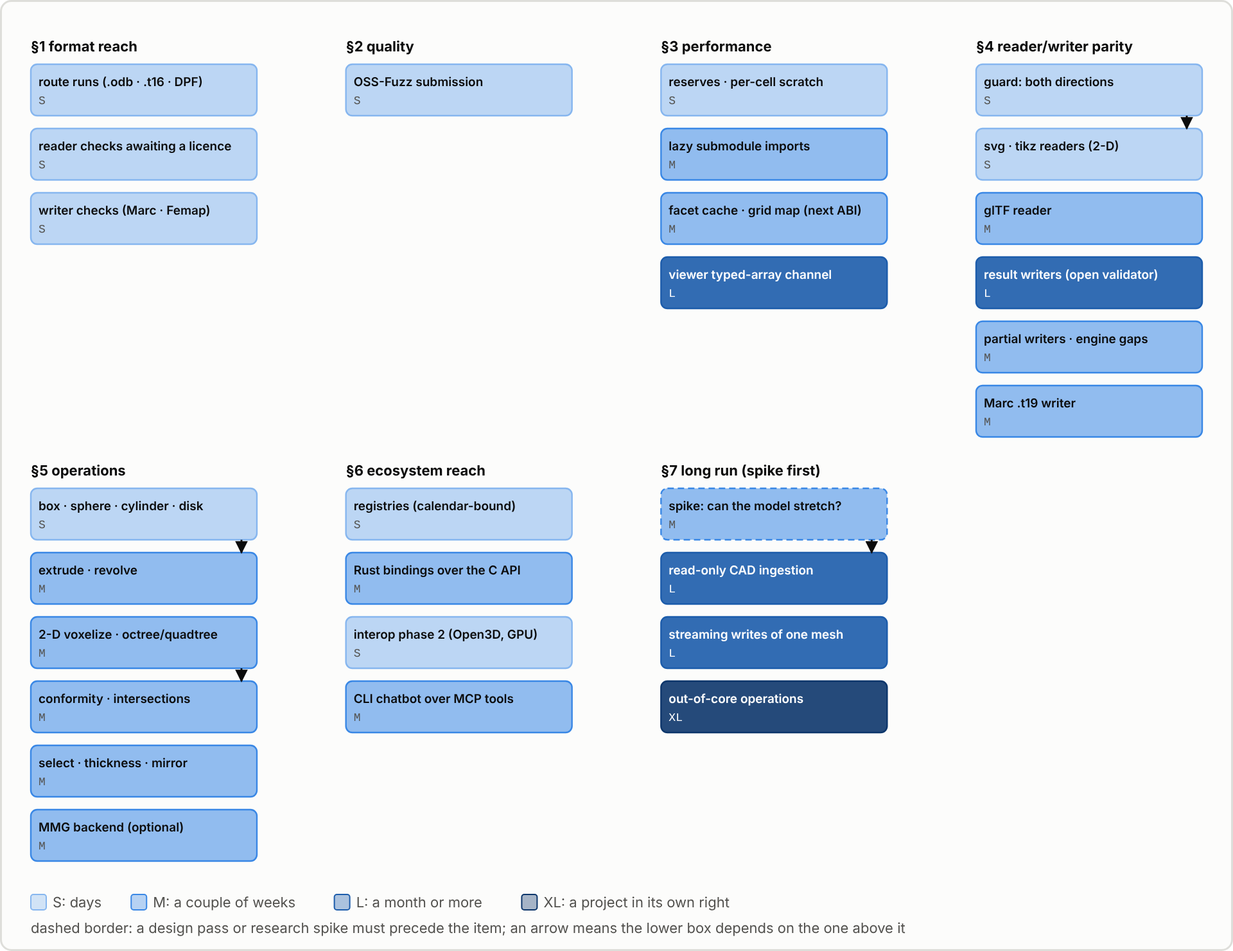
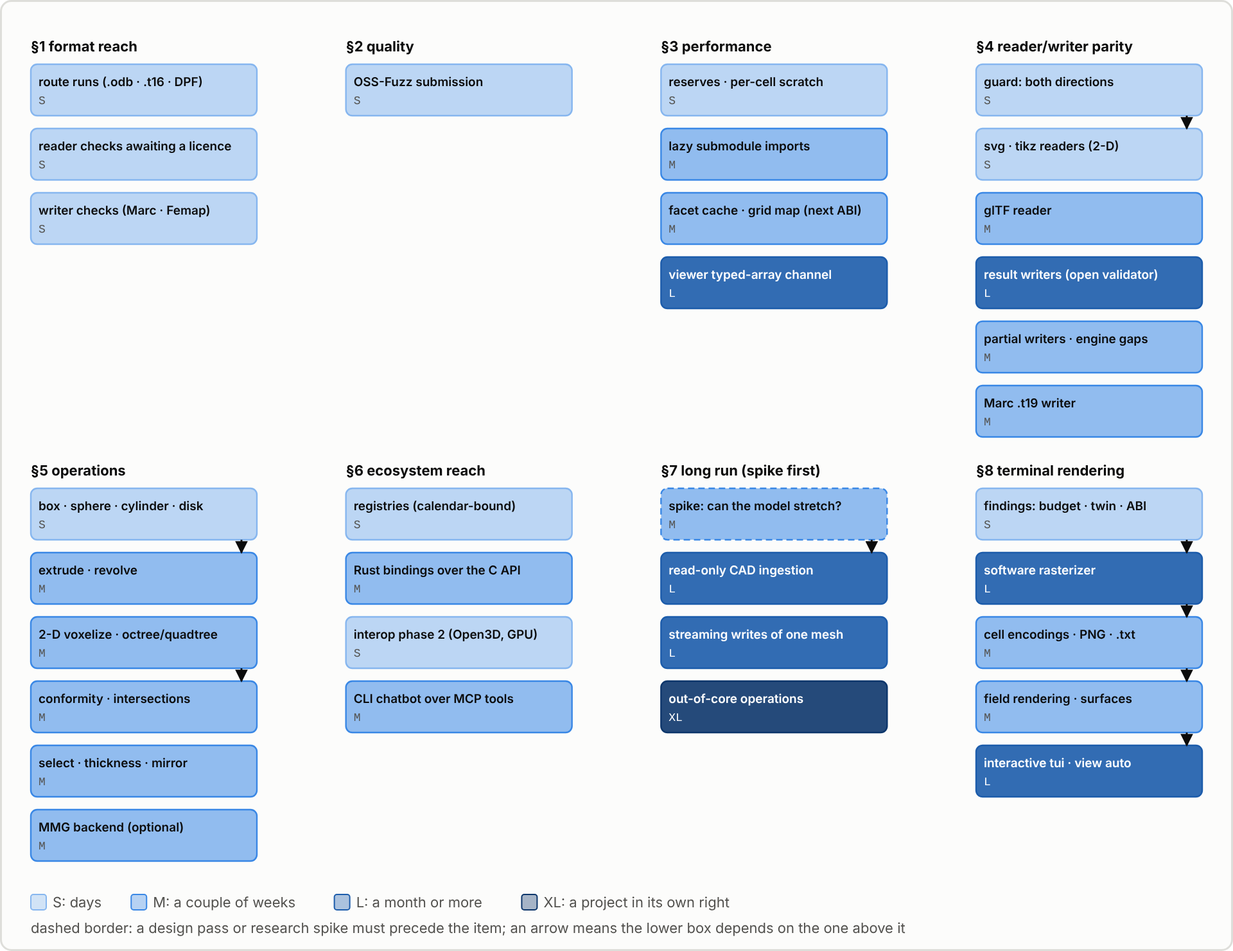
Rewrite roadmap section 8 (terminal rendering) into numbered, probed work items
Replace the pasted summary (dangling 7.x references, first-person notes) with 8.1-8.8: findings before code, software rasterizer, cell encodings, one-shot outputs, field rendering, surfaces, interactive loop and the view(backend=auto) change. Add the section to the roadmap map and the suggested sequencing.

Claude-Session: https://claude.ai/code/session_018xF6bMja5bT89q2K8qk381

Changed region(s): [[0.7812, 0.4662, 1.0, 0.8392]]

diff --git a/doc/diagrams/figures/flows.py b/doc/diagrams/figures/flows.py
@@ -1010,6 +1010,17 @@ def roadmap_map():
             ],
             [(0, 1)],
         ),
+        (
+            "§8 terminal rendering",
+            [
+                ("findings: budget · twin · ABI", "S"),
+                ("software rasterizer", "L"),
+                ("cell encodings · PNG · .txt", "M"),
+                ("field rendering · surfaces", "M"),
+                ("interactive tui · view auto", "L"),
+            ],
+            [(0, 1), (1, 2), (2, 3), (3, 4)],
+        ),
     ]
     per_row = 4
     col_w = 176

diff --git a/doc/roadmap.md b/doc/roadmap.md
@@ -336,19 +336,84 @@ What changed since parity last had a section. The reader/writer triage of Septem
 
 ## 8. Terminal rendering (TUI)
 
-*Admission: work whose shape is unknown until an investigation writes it down. Findings before code.*
+*Admission: a user-facing subsystem with no shipped half, assembled mostly from kernels that already exist. Findings (8.1) before code; after that the order is what each landing unlocks.*
 
-- **Core (7.1–7.3):** a software rasterizer built on the camera, colormap and facet-colour code the SVG and TikZ writers already share. It is deterministic, so frames are byte-identical across backends and thread counts. It draws to half-block, quadrant, sextant, Braille or ASCII cells at several colour depths, with optional Kitty, iTerm2 and Sixel graphics. One-shot outputs are `.txt`, `.ansi`, `.html`, PNG and `.cast`.
-- **Field rendering (7.4):** point and cell data, vector and tensor components, and tensor invariants. It also covers `data_calc` expressions, ranges and scales, colormaps, legends and categorical regions. Isolines, vector arrows and warping are included, with optional streamlines. Diagnostic views show quality and orientation.
-- **Interactive loop (7.5–7.7):** mouse and keyboard control, probing, a `:` command line, saved sessions and side-by-side comparison. Clip planes and cutaways, time stepping and following a live run complete it.
-- **Surfaces (7.8):** the native CLI (`tui`, `snapshot`), Python (`tui`, `render_text`, `render_image`, a software `screenshot`), the C API with Fortran/Julia/R mirrors, WASM, MCP and docs.
+**Where this starts.** Three writers already turn a mesh into a picture: `svg`, `tikz` and `gltf` (see [SVG](./formats/svg.md)). They share an orthographic camera (`detail/projection.hpp`, azimuth/elevation/roll, a painter's-algorithm face order), three 256-entry colormap tables (`detail/colormap.hpp`: `viridis`, `turbo`, `coolwarm`) and one data-to-facet-colour resolver (`detail/face_color.hpp`), each with a Python twin pinned byte for byte by `test_svg.py`, `test_tikz.py` and `test_colormap.py`. The interactive [viewer](./viewer.md) is a different stack: Polyscope (optional, Python-only, excluded from the release binaries) or vtk.js in a browser. `view(backend="auto")` falls back to writing an HTML file when there is no display (`_has_display`, an environment-variable check), and `screenshot` is Polyscope-only and needs EGL or a virtual framebuffer.
 
-*Things you should know before merging:*
+The gap is a shell with no display and no browser: an SSH session on a cluster login node, a container, a CI log, a Jupyter-less laptop terminal. There a mesh cannot be seen at all, and "does this file look right?" has no answer short of copying it elsewhere. What is missing is a *raster* path: a depth buffer (the painter's algorithm sorts faces by centroid depth and misorders intersecting or large faces), shading, a pixel image, a PNG encoder (nothing in the core writes one, and `detail/zlib_inflate` only inflates), terminal capability detection and an input loop. Everything vector (SVG, TikZ) stays as it is.
 
-- **Release binaries:** unlike Polyscope, the TUI ships in the prebuilt release binaries, because it needs no OpenGL and no vendored dependencies.
-- **`view(backend="auto")` changes:** on a terminal with no display it now opens the TUI instead of writing an HTML file nobody can open. I flagged this as the one behaviour change in the section.
-- **Python twin:** the rasterizer's byte-identity is an explicit decision at landing. If the numpy twin can't match the core cheaply, the fallback is the MMG precedent, where Python uses the core or raises.
-- **† marks:** terminal-protocol facts, Windows requirements, tmux behaviour, colormap licences and pyte are from memory. I opened no external pages, so the section carries no external links.
+- **8.1 Findings before code.** Each item is small and changes what the rest looks like; write the result into this section or a `doc/tui.md` draft before 8.2 starts. **S–M**
+  - **8.1.1 Frame budget.** Measure a software rasterizer on the existing `bench_ops` tiers: a 200×60-cell terminal is 200×120 half-block pixels (24k), but a 4× supersampled snapshot is 384k. Decide from the `--tier XL` skin (about 10M cells) whether the interactive loop needs a coarser draw while the camera moves (8.7.2) or a spatial structure, and whether the volume skin is extracted once and cached per mesh. Probe: a `render_frame` row in `tools/bench_ops.sh`.
+  - **8.1.2 Python twin or core-only.** The rasterizer's byte-identity across languages is an explicit decision, not an assumption. A NumPy twin of an integer edge-function rasterizer is possible but slow and doubles the surface; if it cannot match the core cheaply the fallback is the MMG precedent: Python calls the core or raises by name, with no silent pure-Python path (`MESHIOPLUSPLUS_STRICT_CORE` and `test_no_broad_core_swallow.py` both stay satisfied).
+  - **8.1.3 Dependency posture.** Nothing beyond the C++ standard library and the OS: no curses/ncurses, no `termios` wrapper library, no image library. Raw mode and size come from `termios`/`ioctl(TIOCGWINSZ)` on POSIX and from the console API with virtual-terminal processing enabled on Windows †. Python side the same (`termios`, `shutil.get_terminal_size`). Decide the Windows floor (Windows 10 1809 for VT sequences †) and document it.
+  - **8.1.4 Where the code lives.** A public `operations/render.hpp` (a `RenderOptions` struct and a `Frame` result: an RGBA8 buffer, width, height, and the id buffer of 8.7.4) with the terminal encoders in `detail/` and the interactive loop in the CLI layer (`src/cpp/cli/`), so the library never owns a tty. A new public header is an additive ABI change: a release-specific entry in [ABI reviews](./abi_reviews.md) naming it, with its layout row in `tests/cpp/test_abi_layout.cpp`.
+  - **8.1.5 Determinism contract.** Fix what "byte-identical" means before writing a pixel: fixed-point screen coordinates (a stated subpixel precision), integer edge functions with a top-left fill rule, no floating-point reduction whose order depends on the thread count, and `-ffp-contract=off` for the rasterizer's translation unit † so a compiler's fused multiply-add cannot change a covered pixel between toolchains. The gate is the existing operation-determinism check (`tools/bench_ops.sh … --hash`): digests equal across `SEQ`/`OPENMP`/`TBB` and thread counts.
+
+- **8.2 A software rasterizer.** `render(mesh, …)` returns an RGBA frame. Built on the shared camera, the colormap tables and `face_color`, not beside them: the SVG/TikZ colour path keeps one resolver. **M–L**
+  - **8.2.1 Geometry in.** The drawn faces are the ones the SVG writer draws: 2-D cells as they are, volume cells through [`extract_skin`](./extract_skin.md), `line` cells as lines and `vertex` cells (or a cell-less cloud) as points, with `"surface:parent_cell"` carrying cell data to the skin as `face_color` already does. Polygons are fan-triangulated from the first corner, quads from the shorter diagonal, so a warped quad never shades inconsistently between runs. Ragged polygons and polyhedra go through the `Row`/`Face` accessors and the [polyhedron kernel](./polyhedra.md), not a backend member.
+  - **8.2.2 Raster core.** A float depth buffer, an id buffer (cell index, block-major, so [regions](./regions.md) resolve) and an RGBA8 colour buffer; triangles by integer edge functions over tiles; lines by Bresenham/DDA with a depth bias so an overlay edge wins over its own face; points as small discs. Work is split over tiles with `parallel_for`, each tile owned by one worker, so there is no race to order and the result does not depend on the backend.
+  - **8.2.3 Camera.** The existing orthographic `camera_basis` plus a perspective projection (a vertical field of view, a near/far fitted to the bounding sphere), named view presets (`iso`, `+x`, `-x`, `+y`, `-y`, `+z`, `-z`) and a fit-to-frame that frames the *drawn* geometry rather than the whole bounding box. The painter's-order SVG path is untouched, so an SVG written before and after this lands is byte-identical.
+  - **8.2.4 Shading.** Flat (the default, cheapest, no normals), a headlight Lambert term from [`compute_normals`](./normals.md) with a two-sided option so an open shell and an inverted element are both visible, and optional smooth per-vertex shading honouring the `split_angle` creases the glTF writer already shares. Light direction and an ambient floor are options; shading multiplies the field colour and never replaces it.
+  - **8.2.5 Overlays.** A wireframe of the element edges, or only the [`feature_edges`](./feature_edges.md) (the crease kernel in `detail/crease_edges`); region boundaries; an axes gizmo and a scale bar drawn in a corner; a background colour or a transparent one for PNG.
+  - **8.2.6 Anti-aliasing.** An integer supersampling factor (1, 2, 4) resolved by a fixed-order box filter, not MSAA, so the downsample is as deterministic as the fill. Probes below.
+  - **8.2.7 Probes.** The same frame hash for `SEQ`, `OPENMP` and `TBB` at 1, 4 and 8 threads; two interpenetrating triangles show the intersection line (the painter's algorithm cannot); the three hidden faces of a cube never contribute a pixel; a one-triangle mesh covers exactly the pixels a hand-derived top-left rule says; an empty mesh and a single point render without throwing; `n`-cell meshes with `n = 0, 1` keep the frame size.
+
+- **8.3 Terminal cell encodings and colour depth.** The step from pixels to characters. Pure functions of a frame, so they test without a terminal. **M**
+  - **8.3.1 Cell glyph sets.** Half-block (`▀`, one foreground and one background colour per cell, a 1×2 grid), quadrant (2×2, Unicode block elements), sextant (2×3, Unicode 13 †), Braille (2×4 dots, one colour per cell, the best line work) and an ASCII luminance ramp (1×1) for anything that cannot print Unicode. A cell is encoded by choosing the two-colour split and glyph that minimise the squared error against its subpixels, with a fixed tie-break order so equal costs never flip a glyph between runs.
+  - **8.3.2 Colour depth.** 24-bit truecolor, the xterm 256-colour palette (the 6×6×6 cube plus the 24-step grey ramp, nearest by a fixed metric), the 16 ANSI colours and monochrome. Selection follows `NO_COLOR`, `COLORTERM=truecolor|24bit` and `TERM` and can be forced with an option. Palette quantization never dithers by default, since dithering reads as noise in a field plot.
+  - **8.3.3 Terminal geometry.** Columns and rows from `TIOCGWINSZ`, and the pixel size when the terminal reports it (`ws_xpixel`/`ws_ypixel`, or the `CSI 14 t` / `CSI 16 t` queries †), otherwise an assumed 1:2 cell aspect that an option overrides. The frame size is derived from this so a circle stays round.
+  - **8.3.4 Graphics protocols, optional.** Kitty graphics (APC, chunked base64 †), iTerm2 inline images (OSC 1337 †) and Sixel (DCS, a palette quantized by a deterministic median cut †, capability found by a Primary Device Attributes query †). They are chosen only on request or by an explicit probe, never guessed from `TERM`, and fall back to a cell encoding. Inside tmux or screen the sequences need the passthrough wrapper †; detect `TMUX` and wrap or refuse by name.
+  - **8.3.5 Colormaps.** Beyond `viridis`, `turbo` and `coolwarm`: `magma`, `inferno` and `plasma` (the other matplotlib listed maps), a grey ramp, a reversed variant of each, and a qualitative palette for regions (8.5.4). They are generated by `tools/gen_colormaps.py` into the three twins pinned by `test_colormap.py`, which also benefits SVG, TikZ and glTF; licences (matplotlib's CC0 listed maps, Turbo's Apache-2.0 †) are recorded in `CITATION.cff` or `CHANGELOG.md` per the repository rule on third-party data.
+  - **8.3.6 Probes.** An all-black and an all-white frame encode to the expected glyph and colour for each depth; a two-colour checker round-trips through the half-block encoder with zero error; the ASCII ramp is monotone in luminance; with `NO_COLOR` set no escape sequence except cursor control is emitted.
+
+- **8.4 One-shot outputs.** The non-interactive result of 8.2 and 8.3, usable in a pipe or a CI log. **S–M**
+  - **8.4.1 Text forms.** `.txt` (glyphs only), `.ansi` (glyphs plus SGR colour, `cat`-able), `.html` (a `<pre>` of coloured spans with a fixed font stack, self-contained, so it opens in any browser) and a function that returns the string for the caller to print.
+  - **8.4.2 PNG without a dependency.** No encoder exists in the core. Write PNG with *stored* (uncompressed) deflate blocks and a hand-rolled CRC-32 and Adler-32, so the C++ and Python output are the same bytes and no zlib is required; an optional `compress=` level uses zlib when `MESHIOPLUSPLUS_WITH_ZLIB` is on and is documented as not byte-identical across zlib versions. This is the software `screenshot`: it works where Polyscope is absent and in the release binaries that exclude it.
+  - **8.4.3 asciicast.** `.cast` (asciinema v2: a JSON header and `[time, "o", data]` lines †) for an orbit around the model or a time series stepped through, so a figure for a README is a recording of the real terminal. Frame times are derived from the frame index and a stated rate, never the wall clock, so the file is reproducible.
+  - **8.4.4 Not registry formats.** These are renderings, not mesh files: `.txt` and `.html` collide with unrelated formats and the registry writer has no frame parameters. They are operations with their own verbs (8.6), not entries in `registry.cpp` or [`doc/formats.md`](./formats.md), and the conformance matrix does not apply. A `.svg`-style "write a PNG from `write()`" shortcut is a follow-up only if a user asks.
+
+- **8.5 Field rendering.** What turns a picture of a surface into a picture of a solution. **M**
+  - **8.5.1 Data in.** Point and cell data through the existing `face_color` rules (point data averaged over a face's corners, cell data by the owning cell); a vector or tensor component, or its magnitude; a tensor reduced by [`tensor_invariants`](./data_operations.md) (von Mises, principal values, hydrostatic part) before colouring; and a [`data_calc`](./data_calc.md) expression evaluated on the fly, so `--expr "mag(u) / max(p)"` needs no intermediate file. The first-found-wins lookup order (point data, then cell data) and the error naming what is available stay as they are.
+  - **8.5.2 Ranges and scales.** Auto range over the *drawn* finite values, a fixed `vmin`/`vmax`, a percentile clip (`--clip 2 98`) so one outlier does not flatten the plot, a symmetric range about zero for the diverging `coolwarm`, and linear, log and symlog scales. NaN and infinity draw in `nan_color`, as in SVG, and the legend says so.
+  - **8.5.3 Legend.** A horizontal gradient bar with the minimum, maximum and, on a log scale, decade ticks, drawn into the frame (pixels) and as a line of text under it; the one `colorbar` flag SVG and TikZ expose gains the same meaning here.
+  - **8.5.4 Categorical regions.** Named [regions](./regions.md) and integer `cell_data` such as a material id coloured by a fixed qualitative palette, with a key listing name, colour and cell count. A cell in several regions takes the first in a documented order; an empty named region still appears in the key.
+  - **8.5.5 Isolines.** Contour lines of a point field on a surface, drawn as lines with a depth bias, from the marching kernel `isosurface` and `slice` already share (`detail/marching.hpp`); `--isolines N` or explicit levels. On a volume skin the lines sit on the visible boundary.
+  - **8.5.6 Vectors and warping.** Arrows for a vector field at a [point budget](./point_budgets.md)'s selected points (length by magnitude or a fixed length, drawn as lines with a head); a *warp* by a displacement field with a scale factor, drawing the deformed shape with the undeformed outline beside it. Streamlines need a sampler (`sample_grid`) and a step integrator and are a follow-up, not v1.
+  - **8.5.7 Diagnostic views.** One flag for the checks people run first: element quality (any [`quality`](./mesh_quality.md) metric such as `scaled_jacobian`), inverted and degenerate cells highlighted, face orientation (front and back faces in two colours, which makes a flipped patch visible at once), free and non-manifold edges from [`repair`](./repair.md)'s detectors, and edge length. They reuse the metrics already computed; none is a new algorithm.
+  - **8.5.8 Probes.** Colouring by a constant field gives one colour; a linear field on a plane gives a monotone gradient; a symmetric range maps zero to the colormap's midpoint; percentile clipping equals explicit `vmin`/`vmax` computed from the same data; the isolines of `x` on a unit square are `n` equally spaced vertical lines; a flipped triangle shows in the orientation view.
+
+- **8.6 Surfaces.** The rule in `AGENTS.md`: a native operation reaches every surface, and a Python-only layer says so. **M**
+  - **8.6.1 Native CLI.** `meshioplusplus snapshot IN OUT` (the one-shot outputs, the format by extension; `-` writes the ANSI form to stdout) and `meshioplusplus tui IN` (the loop of 8.7), sharing the camera, field and legend flags of `convert`'s `--color-by` family (`--component`, `--cmap`, `--vmin`, `--vmax`, `--nan-color`, `--colorbar`) rather than inventing parallel ones. Unlike Polyscope, the TUI ships in the prebuilt release binaries: it needs no OpenGL and vendors nothing, so `view` and `screenshot` there can say "use `snapshot`" instead of reporting a build flag.
+  - **8.6.2 Python.** `render_image(mesh, …)` returning an `(H, W, 4)` `uint8` array, `render_text(mesh, …)` returning the ANSI string, a software fallback inside `screenshot` when Polyscope is absent, and `tui(mesh, …)` for the loop. The Python CLI gets the same two verbs. Per 8.1.2 these call the core or raise.
+  - **8.6.3 C and the language mirrors.** `mio_render_ex` with an append-only, reserved-tail option struct and a report, returning an owning image or text buffer (setters copy, getter borrows expire on mutation, per [C API](./c_api.md)); Fortran, Julia and R wrappers with their layout checks, defaults and, for R, `NAMESPACE` exports; the Julia and R notebook helpers can then display a frame inline. The interactive loop is CLI-only and has no C entry point.
+  - **8.6.4 WASM.** `render()` returning an `ImageData`-compatible RGBA buffer and the text form, for a page with no WebGL (a server-side preview, a Node script). The loop and the terminal-protocol encoders are not exported; no new dependency enters the bundle.
+  - **8.6.5 MCP.** A `render_mesh` tool taking a path and the render options and returning a PNG (as MCP image content) or the text form, so an agent can look at a mesh. This is required by the parity rule — `test_every_operation_has_a_tool` reads `__all__` against tool `wraps`, so `render_image` needs a tool or an explicit `_NOT_TOOLS` entry with a reason, and a path-in, image-out call is expressible — and goes into `_tools.py`, `_server.py`, `tests/python/test_mcp.py` and [doc/mcp.md](./mcp.md) in the same change. The interactive `tui` is exempt like `view`.
+  - **8.6.6 Pipeline and datasets.** A `Snapshot` pipeline step that writes a frame as a side output after any step (a before/after of a `smooth` or `decimate` in a report), and a thumbnail field in [dataset](./datasets.md) manifests as a follow-up.
+  - **8.6.7 Docs, examples and ABI.** A `doc/tui.md` page (added to the sidebar group in `doc/.vitepress/config.mts`), the viewer comparison table in [viewer](./viewer.md) gaining a column, the SVG and glTF pages linking to it, README and [CLI](./cli.md) updates, a notebook cell showing `render_image` through matplotlib beside the PyVista one, the terminal form embedded as HTML, an ABI-review entry (8.1.4), the single header regenerated, and a `CHANGELOG.md` entry that names the `view(backend="auto")` change of 8.8.
+
+- **8.7 An interactive loop.** `tui` — the loop around 8.2–8.5, native CLI first. **L**
+  - **8.7.1 Terminal handling.** Raw mode, the alternate screen (`CSI ?1049h`), a hidden cursor, mouse reporting in SGR mode (`CSI ?1006h` †) and bracketed paste; `SIGWINCH` (or a size poll on Windows) re-fits the frame. The terminal is restored on every exit path: normal return, an exception, `SIGINT`, `SIGTERM` and `atexit`. Run on a non-tty it refuses by name and suggests `snapshot`.
+  - **8.7.2 Camera control.** Mouse drag to orbit, the wheel and `+`/`-` to zoom, a modifier-drag or the arrow keys to pan, `r` to reset, and number keys for the view presets of 8.2.3. While input is pending the loop draws at a fraction of the pixel count and refines to full resolution once the stream is idle, so a large mesh stays steerable; the *final* frame is the deterministic one, whatever the path to it.
+  - **8.7.3 Frame output.** Diff the new frame against the last and emit only the changed cells (cursor addressing plus the SGR change), one buffered write per frame, to keep an SSH link usable.
+  - **8.7.4 Probing.** The id buffer of 8.2.2 identifies the cell under the pointer: its index and block, node ids, the field value and every other array's value there, a region name, and the surface-extracted parent for a volume. A status line shows it; a key pins a probe so two can be compared.
+  - **8.7.5 A command line.** `:` opens a prompt: `:color temperature`, `:cmap turbo`, `:range 0 1`, `:clip x 0.5`, `:step 12`, `:w frame.png` (one-shot of 8.4), `:help`. Commands are the CLI's own flags, parsed by the same code, so there is one vocabulary.
+  - **8.7.6 Sessions.** `--session FILE` saves and restores the camera, the field, range and scale, the clip planes and the step as JSON (strict, sorted keys, versioned), so a view someone reached can be reopened or attached to an issue.
+  - **8.7.7 Comparison.** Two meshes side by side (or one over the other) with a shared camera and, optionally, a shared colour range; the [`diff`](./diff.md) report's per-node difference as a field. Orbiting moves both.
+  - **8.7.8 Clipping.** Clip planes and cutaways that discard fragments in the rasterizer, from the [`slice`](./slice.md) and [`crop`](./crop.md) vocabulary: a plane by axis and offset or by point and normal, kept side flippable. v1 shows the interior's back faces tinted rather than building a capping surface; real caps are a follow-up.
+  - **8.7.9 Time.** A [sequence](./sequences.md) opened lazily with `[`/`]` to step, space to play at a stated rate, a time label, and a range fixed over the series (or per step, switchable) so colours do not jump.
+  - **8.7.10 Following a live run.** `--follow` watches a file or glob and reloads when a new step appears: modification-time polling by default (inotify and kqueue as an optimisation †), a settle delay and a retry on a partial read (a reader throwing `ReadError` on a half-written file is expected, not fatal), and the last good frame stays on screen meanwhile. Built on the [sequence](./sequences.md) machinery that expands a quoted glob.
+  - **8.7.11 Probes.** A scripted input stream (a recorded byte sequence replayed into the loop on a pseudo-terminal) reproduces a session's final frame hash; killing the process in each state leaves the terminal in cooked mode with the cursor visible; resizing mid-frame never emits a frame larger than the terminal. CI drives it with a pty harness, plus `pyte` † for the Python side's screen model.
+
+- **8.8 `view(backend="auto")` and the viewer table.** The one behaviour change in this section. Today `auto` picks Polyscope with a display and otherwise the browser backend, which on a display-less terminal writes an HTML file nobody can open. The proposal: add `backend="terminal"`; `auto` resolves to Polyscope with a display, else the terminal when stdout *and* stdin are ttys, else the browser. A notebook is not a tty, so notebook behaviour does not change; an SSH session with X forwarding still opens a window. `--backend terminal|polyscope|browser|auto` on both CLIs, and a line in the `view` docstring and [viewer](./viewer.md). Probe: a `pty`-backed test that `auto` selects the terminal on a tty with `DISPLAY` unset and the browser on a pipe. **S**, but it ships with 8.7 — before that `auto` has nothing to choose — and the `CHANGELOG.md` entry is marked **Breaking:** for anyone relying on the HTML fallback from a terminal.
+
+*Decisions taken (so they are not re-proposed):*
+
+- **No GPU, no windowing stack, no new dependency.** The rasterizer is software, deterministic and dependency-free by design; it is a *preview*, not a replacement for Polyscope or vtk.js, and does not try to match their fidelity, lighting or picking.
+- **Vector output is unchanged.** SVG, TikZ and glTF keep the painter's algorithm and their byte-pinned twins; nothing here may change a byte of them (probe: their existing tests stay green and unedited).
+- **The loop is not a library feature.** Raw mode, signals and the event loop live in the CLI layer; the library exposes frames and encoders, never a tty. WASM and the C API carry frames and text only.
+- **Terminal facts marked † are from memory.** The escape sequences, Unicode block ranges, Windows console requirements, tmux passthrough behaviour, colormap licences and `pyte`'s API were not checked against their specifications while this section was written, so it carries no external links; verify each before relying on it, as 1.1.1 does for the format links.
+
+*Recommended posture: 8.1, then 8.2 with the text outputs of 8.3–8.4 (a rendered cube in `snapshot` is the first useful release), then 8.5 and 8.6 together, and 8.7–8.8 last. 8.2–8.4 stand alone without 8.7: the interactive loop is the largest item and the least necessary.*
 
 ---
 
@@ -383,3 +448,4 @@ Open work only; what shipped is in `CHANGELOG.md`.
 7. **The MMG backend ([§5](#_5-operations))** — Medit `.sol` first, since it needs no link and opens the file route; then `adapt`, `discretize_levelset`, `mesh_domain` and, with ELAS, `move`.
 8. **Registration ([§6](#_6-ecosystem-reach))** — calendar-bound, so start the submissions early and let them run alongside everything else.
 9. **Long-run spikes ([§7](#_7-long-run-spike-first))** — the benchmark tier decides the scale items; the NURBS spike is scheduled independently of the rest.
+10. **Terminal rendering ([§8](#_8-terminal-rendering-tui))** — the findings (8.1) first; then the rasterizer with its text and PNG outputs (8.2–8.4), which is a useful release on its own; field rendering and the other surfaces (8.5–8.6); the interactive loop and the `view(backend="auto")` change (8.7–8.8) last.
